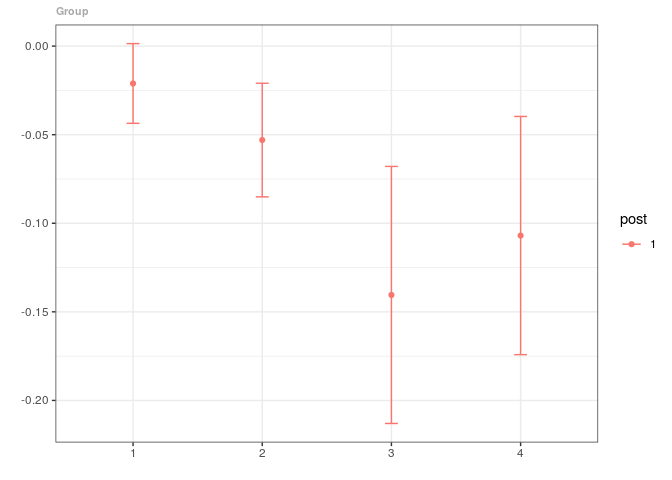
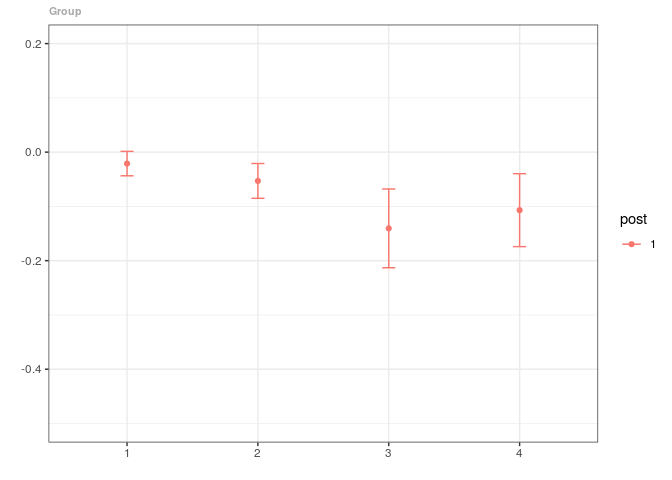
updated readme

diff --git a/README.html b/README.html
@@ -102,7 +102,7 @@ where <span class="math inline"><em>Y</em><sub><em>t</em></sub>(1)</span> and <s
 <span class="kw">ggdid</span>(out, <span class="dt">ylim=</span><span class="kw">c</span>(-.<span class="dv">5</span>,.<span class="dv">2</span>))</code></pre></div>
[1 lines of base64/hex data omitted]
 <p>Another common use for the <code>did</code> package is reporting &quot;event-study&quot; type results. To get these directly, one can use</p>
-<div class="sourceCode"><pre class="sourceCode r"><code class="sourceCode r"><span class="kw">summary</span>(out$aggte, <span class="dt">type=</span><span class="st">&quot;dynamic&quot;</span>, <span class="dt">ylim=</span><span class="kw">c</span>(-.<span class="dv">5</span>,.<span class="dv">2</span>))
+<div class="sourceCode"><pre class="sourceCode r"><code class="sourceCode r"><span class="kw">summary</span>(out$aggte, <span class="dt">type=</span><span class="st">&quot;dynamic&quot;</span>)
 <span class="co">#&gt; </span>
 <span class="co">#&gt; Reference: Callaway, Brantly and Sant'Anna, Pedro.  &quot;Difference-in-Differences with Multiple Time Periods.&quot; Working Paper &lt;https://ssrn.com/abstract=3148250&gt;, 2019. </span>
 <span class="co">#&gt; Overall Summary Measures </span>
@@ -126,8 +126,8 @@ where <span class="math inline"><em>Y</em><sub><em>t</em></sub>(1)</span> and <s
 <span class="co">#&gt;   3   -0.1404646   0.0370100</span>
 <span class="co">#&gt;   4   -0.1069326   0.0342974</span></code></pre></div>
 <p>and to plot the same results</p>
-<div class="sourceCode"><pre class="sourceCode r"><code class="sourceCode r"><span class="kw">ggdid</span>(out, <span class="dt">type=</span><span class="st">&quot;dynamic&quot;</span>)</code></pre></div>
[1 lines of base64/hex data omitted]
+<div class="sourceCode"><pre class="sourceCode r"><code class="sourceCode r"><span class="kw">ggdid</span>(out, <span class="dt">type=</span><span class="st">&quot;dynamic&quot;</span>, <span class="dt">ylim=</span><span class="kw">c</span>(-.<span class="dv">5</span>,.<span class="dv">2</span>))</code></pre></div>
[1 lines of base64/hex data omitted]
 <p>Other options for both <code>summary</code> and <code>ggdid</code> are:</p>
 <ul>
 <li><p>&quot;selective&quot; -- results when there is selective treatment timing</p></li>

diff --git a/README.md b/README.md
@@ -108,7 +108,7 @@ ggdid(out, ylim=c(-.5,.2))
 Another common use for the `did` package is reporting "event-study" type results. To get these directly, one can use
 
 ``` r
-summary(out$aggte, type="dynamic", ylim=c(-.5,.2))
+summary(out$aggte, type="dynamic")
 #> 
 #> Reference: Callaway, Brantly and Sant'Anna, Pedro.  "Difference-in-Differences with Multiple Time Periods." Working Paper <https://ssrn.com/abstract=3148250>, 2019. 
 #> Overall Summary Measures 
@@ -136,7 +136,7 @@ summary(out$aggte, type="dynamic", ylim=c(-.5,.2))
 and to plot the same results
 
 ``` r
-ggdid(out, type="dynamic")
+ggdid(out, type="dynamic", ylim=c(-.5,.2))
 ```
 
 ![](README-unnamed-chunk-7-1.png)
